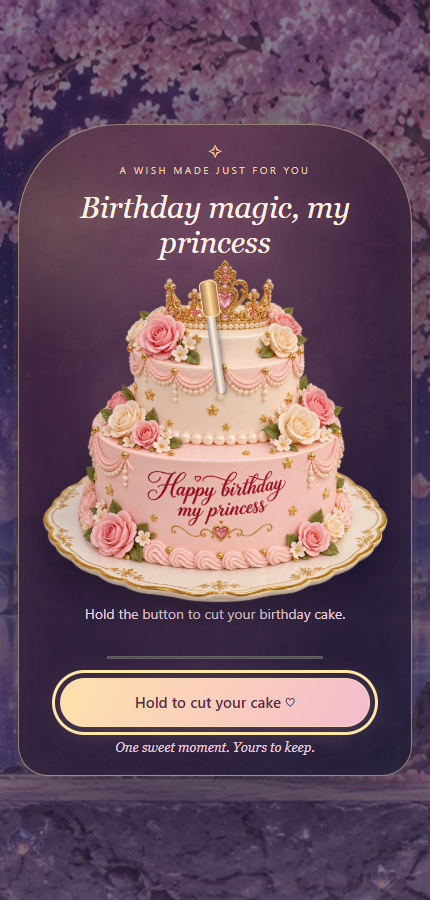
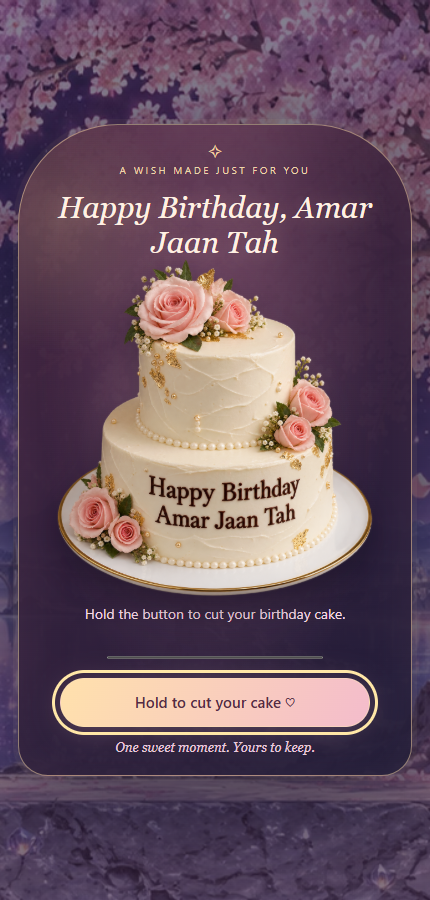
Update

Changed region(s): [[0.0907, 0.2178, 0.907, 0.6844]]

diff --git a/game.js b/game.js
@@ -55,7 +55,7 @@ function stop(){input=0;velocity=0;keys.clear();pointer=null;$('stick').style.tr
 function blocked(){return $('love-question').open||manualPause||document.hidden||$('letter').open||$('journal').open||$('challenge').open;}
 function setPhase(p){
  if(phase==='video'&&p!=='video')finaleVideo.pause();
- phase=p;clock=0;stop();cutHeld=false;$('cake-cutting').hidden=p!=='cutCake';if(p!=='loveQuestion'&&$('love-question').open)$('love-question').close();$('controls').hidden=p!=='explore';$('action').hidden=true;$('speech').hidden=true;
+ phase=p;clock=0;stop();$('end-reminder').hidden=true;cutHeld=false;$('cake-cutting').hidden=p!=='cutCake';if(p!=='loveQuestion'&&$('love-question').open)$('love-question').close();$('controls').hidden=p!=='explore';$('action').hidden=true;$('speech').hidden=true;
  $('ending').hidden=p!=='finished';$('video-screen').hidden=p!=='video';$('hud').hidden=!active||p==='video';
  updateAction();
 }
@@ -97,10 +97,10 @@ $('video-play').onclick=playFinaleVideo;
 $('video-continue').onclick=finishFinaleVideo;
 finaleVideo.addEventListener('ended',finishFinaleVideo);
 finaleVideo.addEventListener('error',()=>{if(phase!=='video')return;$('video-status').textContent='The video could not load. You can try again or continue.';$('video-play').hidden=false;});
-function updateAction(){let text=null;if(phase==='explore'&&near!==null){text=near==='bouquet'?'Pick up roses ♡':collected.has(near)?'Read again ♡':(passed.has(near)||letters[near]?.challengeEnabled===false)?'Open letter ♡':'Discover ♡';}if(phase==='offer')text=C.finale.handButton;if(phase==='cake')text=C.finale.candleButton;$('action').hidden=!text||blocked();if(text)$('action').textContent=text;$('action').classList.toggle('cinematic',phase!=='explore');}
+function updateAction(){let text=null;if(phase==='explore'&&near==='bouquet')text='Pick up roses ♡';if(phase==='offer')text=C.finale.handButton;if(phase==='cake')text=C.finale.candleButton;$('action').hidden=!text||blocked();if(text)$('action').textContent=text;$('action').classList.toggle('cinematic',phase!=='explore');}
 function findNear(){near=null;if(!carrying&&Math.abs(x-BOUQUET)<155)near='bouquet';else{let d=140;letters.forEach((l,i)=>{if(Math.abs(x-l.x)<d){near=i;d=Math.abs(x-l.x);}});}updateAction();}
 $('action').onclick=()=>{if(blocked())return;if(phase==='explore'&&near==='bouquet'){beginPickup('bouquet');}else if(phase==='explore'&&Number.isInteger(near)){requestLetter(near);}else if(phase==='offer'){setPhase('hold');chime('win');for(let i=0;i<160*density;i++)petals.push(makePetal(true));}else if(phase==='cake'){setPhase('blow');chime('wind');wind=1;}};
-function requestLetter(i){if(phase!=='explore'||blocked())return;if(collected.has(i))openLetter(i);else beginPickup(i);}
+function requestLetter(i){if(phase!=='explore'||blocked())return;if(collected.has(i)||passed.has(i)||letters[i].challengeEnabled===false)openLetter(i);else startChallenge(i);}
 function beginPickup(target){
  if(phase!=='explore'||blocked())return;
  const itemX=target==='bouquet'?BOUQUET:letters[target].x;
@@ -122,23 +122,24 @@ function pickupPose(){
  return Math.round(bend*7);
 }
 function openLetter(i){stop();modalLetter={...letters[i],i};const l=modalLetter;collected.add(i);passed.add(i);$('letter-number').textContent=`${String(i+1).padStart(2,'0')} / ${letters.length} · FOR ${C.nickname.toUpperCase()}`;$('letter-title').textContent=l.title;$('message').textContent=l.message.replaceAll('{{nickname}}',C.nickname).replaceAll('{{name}}',C.recipientName).replaceAll('{{sender}}',C.senderName);$('signature').textContent=l.signature||`With love, ${C.senderName}`;$('photo').hidden=!l.picture;if(l.picture){$('photo-img').src=l.picture;$('photo-img').alt=l.imageAlt||'Our little memory';}$('caption').textContent=l.caption||'';$('letter-animation').hidden=!l.animation.file;if(l.animation.file)$('letter-animation').src=`${l.folder}/${l.animation.file}`;$('continue').textContent=i===letters.length-1?'A little further… ♡':'Keep it in my heart ♡';$('letter').showModal();$('letter').scrollTop=0;window.writeBirthdayLetter?.($('message').textContent,i);if(l.music){song.src=l.music;song.load();}soundSync();updateCount();updateAction();}
-function closeLetter(){$('letter').close();}$('close-letter').onclick=closeLetter;$('continue').onclick=closeLetter;$('letter').addEventListener('close',()=>{if(letter.open)return;modalLetter=null;soundSync();updateAction();});$('photo-img').onerror=()=>{$('photo').hidden=true;};$('letter-animation').onerror=()=>{$('letter-animation').hidden=true;};song.onerror=()=>{if(modalLetter){modalLetter.music=null;soundSync();}};
+function closeLetter(){$('letter').close();}$('close-letter').onclick=closeLetter;$('continue').onclick=closeLetter;$('letter').addEventListener('close',()=>{if($('letter').open)return;modalLetter=null;soundSync();updateAction();});$('photo-img').onerror=()=>{$('photo').hidden=true;};$('letter-animation').onerror=()=>{$('letter-animation').hidden=true;};song.onerror=()=>{if(modalLetter){modalLetter.music=null;soundSync();}};
 function showJournal(){stop();$('journal-title').textContent=`${letters.length} little letters`;$('journal-list').replaceChildren();letters.forEach((l,i)=>{const b=document.createElement('button');b.disabled=!collected.has(i);b.textContent=collected.has(i)?`♡  ${l.title}`:`✧  Letter ${i+1}`;b.onclick=()=>{$('journal').close();openLetter(i);};$('journal-list').append(b);});$('reset-confirm').hidden=true;$('journal').showModal();updateAction();}
 $('journal-button').onclick=showJournal;$('ending-journal').onclick=showJournal;$('close-journal').onclick=()=>$('journal').close();$('journal').addEventListener('close',updateAction);$('restart').onclick=()=>{$('reset-confirm').hidden=false;};$('reset-no').onclick=()=>{$('reset-confirm').hidden=true;};$('reset-yes').onclick=()=>{collected.clear();passed.clear();carrying=false;completed=false;x=START;camera=0;bg.src=C.backgroundMusic;bg.load();$('journal').close();setPhase('explore');updateCount();soundSync();};$('replay').onclick=()=>{completed=false;beginCinema();};
 function togglePause(){manualPause=!manualPause;$('pause-screen').hidden=!manualPause;$('pause').setAttribute('aria-pressed',String(manualPause));$('pause').setAttribute('aria-label',manualPause?'Continue adventure':'Pause adventure');stop();soundSync();updateAction();}$('pause').onclick=togglePause;$('resume').onclick=togglePause;
 function setInput(n){input=n;$('stick').style.transform=`translateX(${n*22}px)`;}
 function touchMove(e){if(e.pointerId!==pointer)return;const r=$('joystick').getBoundingClientRect(),dx=e.clientX-r.left-r.width/2;setInput(Math.abs(dx)<7?0:Math.sign(dx));}
 $('joystick').addEventListener('pointerdown',e=>{if(phase!=='explore'||blocked())return;pointer=e.pointerId;$('joystick').setPointerCapture(pointer);touchMove(e);e.preventDefault();});$('joystick').addEventListener('pointermove',touchMove);['pointerup','pointercancel','lostpointercapture'].forEach(n=>$('joystick').addEventListener(n,stop));
-window.addEventListener('keydown',e=>{if(!active||blocked())return;if(phase==='explore'&&['arrowright','arrowleft','a','d'].includes(e.key.toLowerCase())){e.preventDefault();keys.add(e.key.toLowerCase());setInput((keys.has('arrowright')||keys.has('d')?1:0)-(keys.has('arrowleft')||keys.has('a')?1:0));}if(e.key.toLowerCase()==='e'&&!$('action').hidden)$('action').click();});window.addEventListener('keyup',e=>{keys.delete(e.key.toLowerCase());if(pointer===null)setInput((keys.has('arrowright')||keys.has('d')?1:0)-(keys.has('arrowleft')||keys.has('a')?1:0));});['left','right'].forEach((id,i)=>{$(id).addEventListener('keydown',e=>{if(e.key===' '||e.key==='Enter'){e.preventDefault();setInput(i?1:-1);}});$(id).addEventListener('keyup',e=>{if(e.key===' '||e.key==='Enter')stop();});});window.addEventListener('blur',()=>{stop();});document.addEventListener('visibilitychange',()=>{stop();soundSync();});
+window.addEventListener('keydown',e=>{if(!active||blocked())return;if(phase==='explore'&&['arrowright','arrowleft','a','d'].includes(e.key.toLowerCase())){e.preventDefault();keys.add(e.key.toLowerCase());setInput((keys.has('arrowright')||keys.has('d')?1:0)-(keys.has('arrowleft')||keys.has('a')?1:0));}if(e.key.toLowerCase()==='e'){if(phase==='explore'&&Number.isInteger(near))requestLetter(near);else if(!$('action').hidden)$('action').click();}});window.addEventListener('keyup',e=>{keys.delete(e.key.toLowerCase());if(pointer===null)setInput((keys.has('arrowright')||keys.has('d')?1:0)-(keys.has('arrowleft')||keys.has('a')?1:0));});['left','right'].forEach((id,i)=>{$(id).addEventListener('keydown',e=>{if(e.key===' '||e.key==='Enter'){e.preventDefault();setInput(i?1:-1);}});$(id).addEventListener('keyup',e=>{if(e.key===' '||e.key==='Enter')stop();});});window.addEventListener('blur',()=>{stop();});document.addEventListener('visibilitychange',()=>{stop();soundSync();});
 function strollDuration(a,b){return Math.max(2.8,Math.abs(b-a)/(C.boyWalkSpeed||135));}
 function stroll(t){t=clamp(t,0,1);const r=.15;if(t<r)return t*t/(2*r*(1-r));if(t>1-r)return 1-(1-t)*(1-t)/(2*r*(1-r));return (t-r/2)/(1-r);}
 function beginCinema(){if(collected.size!==letters.length)return;stop();x=END;camera=clamp(END-V*.24,0,WORLD-V);cinematic={girl:x-camera,boy:V+180,startGirl:x-camera,boyStart:V+180,boyGait:0};setPhase('arrival');$('live').textContent='A boy approaches through the blossoms.';}
 function tick(dt){if(blocked())return;const previousBoy=cinematic.boy,previousPhase=phase;clock+=dt;total+=dt;wind=Math.max(0,wind-dt*.38);
  if(phase==='explore'){
   velocity=mix(velocity,input*210,Math.min(1,dt*10));if(Math.abs(velocity)<1)velocity=0;
-  const limit=!carrying?BOUQUET+80:collected.size===letters.length?END:letters.at(-1).x+145;
+  const limit=!carrying?BOUQUET+80:END;
   x=clamp(x+velocity*dt,START,limit);if(input)face=input;if(velocity)gait+=dt*Math.abs(velocity)/210;
   camera=mix(camera,clamp(x-V*.32,0,WORLD-V),1-Math.exp(-dt*5));findNear();
+  const missingAtEnd=x>=END-2&&collected.size<letters.length;$('end-reminder').hidden=!missingAtEnd;
   if(x>=END-2&&collected.size===letters.length)beginCinema();
  }else if(phase==='pickup'){tickPickup();}
  else if(phase==='arrival'){const duration=strollDuration(V+180,V*.72);cinematic.boy=mix(V+180,V*.72,stroll(clock/duration));if(clock>=duration+.2)setPhase('kneel');}

diff --git a/index.html b/index.html
@@ -1,4 +1,4 @@
-<!doctype html><html lang="en"><head><meta charset="utf-8"><meta name="viewport" content="width=device-width,initial-scale=1,viewport-fit=cover"><meta name="theme-color" content="#080e23"><meta name="description" content="Twenty birthday wishes on a fairy-tale journey from Earth to the Moon."><title>For Muno · A Night to Remember</title><link rel="icon" href="assets/favicon.svg"><link rel="stylesheet" href="style.css?v=16"><script defer src="config.js?v=11"></script><script defer src="letter-writing.js?v=1"></script><script defer src="game.js?v=17"></script></head><body>
+<!doctype html><html lang="en"><head><meta charset="utf-8"><meta name="viewport" content="width=device-width,initial-scale=1,viewport-fit=cover"><meta name="theme-color" content="#080e23"><meta name="description" content="Twenty birthday wishes on a fairy-tale journey from Earth to the Moon."><title>For Muno · A Night to Remember</title><link rel="icon" href="assets/favicon.svg"><link rel="stylesheet" href="style.css?v=17"><script defer src="config.js?v=11"></script><script defer src="letter-writing.js?v=2"></script><script defer src="game.js?v=18"></script></head><body>
 <main id="app"><canvas id="scene" aria-label="Earth-to-Moon birthday adventure"></canvas>
 <section id="entrance"><div id="greeting" class="gate"><span class="flower">✿</span><h1>Hi Dear.</h1><p>Are you <span id="recipient"></span>?</p><div class="choices"><button id="yes" class="primary">Yes ♡</button><button id="no" class="glass">No</button></div><p id="no-message" class="feedback" aria-live="polite"></p></div>
 <form id="secret" class="gate" hidden><span class="flower">♡</span><h1>Our little secret.</h1><label for="answer">What does he call you?</label><input id="answer" placeholder="Your special nickname" autocomplete="off" autocapitalize="off" spellcheck="false" maxlength="80" required aria-describedby="answer-message"><button id="enter" class="primary" type="submit">Enter our world ✧</button><p id="answer-message" class="feedback" aria-live="polite"></p><button id="back" class="text-button" type="button">Back</button></form></section>
@@ -7,11 +7,11 @@
 <button id="action" class="primary action" hidden></button><div id="speech" hidden role="status"></div>
 <div id="pause-screen" hidden><button id="resume" class="primary">Continue ♡</button></div>
 <dialog id="love-question" aria-labelledby="love-title"><article class="paper"><span class="eyebrow">ONE LAST QUESTION</span><h2 id="love-title">Do you love me?</h2><div class="choices"><button id="love-yes" class="primary">Yes ♡</button><button id="love-no" class="glass">No</button></div><p id="love-plea" aria-live="polite"></p></article></dialog>
-<section id="cake-cutting" hidden aria-labelledby="cut-title"><div class="cut-card"><span class="cake-eyebrow">A WISH MADE JUST FOR YOU</span><h2 id="cut-title">Birthday magic, my princess</h2><div class="cake-confetti" aria-hidden="true"><i style="--n:0;--left:0%">♡</i><i style="--n:1;--left:43%">✦</i><i style="--n:2;--left:86%">✦</i><i style="--n:3;--left:29%">♡</i><i style="--n:4;--left:72%">✦</i><i style="--n:5;--left:15%">✦</i><i style="--n:6;--left:58%">♡</i><i style="--n:7;--left:1%">✦</i><i style="--n:8;--left:44%">✦</i><i style="--n:9;--left:87%">♡</i><i style="--n:10;--left:30%">✦</i><i style="--n:11;--left:73%">✦</i><i style="--n:12;--left:16%">♡</i><i style="--n:13;--left:59%">✦</i><i style="--n:14;--left:2%">✦</i><i style="--n:15;--left:45%">♡</i><i style="--n:16;--left:88%">✦</i><i style="--n:17;--left:31%">✦</i><i style="--n:18;--left:74%">♡</i><i style="--n:19;--left:17%">✦</i><i style="--n:20;--left:60%">✦</i><i style="--n:21;--left:3%">♡</i><i style="--n:22;--left:46%">✦</i><i style="--n:23;--left:89%">✦</i></div><div id="cake-art" role="img" aria-label="Romantic rose cake inscribed Happy birthday my princess"><div class="cake-aura"></div><div class="cake-half"><img src="assets/princess-cake.png" alt="" draggable="false"></div><div class="cake-half"><img src="assets/princess-cake.png" alt="" draggable="false"></div><div class="cake-knife" aria-hidden="true"></div></div><p id="cut-status" role="status"></p><progress id="cut-progress" max="1" value="0" aria-label="Cake cutting progress"></progress><button id="cut-button" class="primary">Hold to cut your cake ♡</button><span class="cake-footnote">One sweet moment. Yours to keep.</span></div></section>
+<section id="cake-cutting" hidden aria-labelledby="cut-title"><div class="cut-card"><span class="cake-eyebrow">A WISH MADE JUST FOR YOU</span><h2 id="cut-title">Happy Birthday, Amar Jaan Tah</h2><div class="cake-confetti" aria-hidden="true"><i style="--n:0;--left:0%">♡</i><i style="--n:1;--left:43%">✦</i><i style="--n:2;--left:86%">✦</i><i style="--n:3;--left:29%">♡</i><i style="--n:4;--left:72%">✦</i><i style="--n:5;--left:15%">✦</i><i style="--n:6;--left:58%">♡</i><i style="--n:7;--left:1%">✦</i><i style="--n:8;--left:44%">✦</i><i style="--n:9;--left:87%">♡</i><i style="--n:10;--left:30%">✦</i><i style="--n:11;--left:73%">✦</i><i style="--n:12;--left:16%">♡</i><i style="--n:13;--left:59%">✦</i><i style="--n:14;--left:2%">✦</i><i style="--n:15;--left:45%">♡</i><i style="--n:16;--left:88%">✦</i><i style="--n:17;--left:31%">✦</i><i style="--n:18;--left:74%">♡</i><i style="--n:19;--left:17%">✦</i><i style="--n:20;--left:60%">✦</i><i style="--n:21;--left:3%">♡</i><i style="--n:22;--left:46%">✦</i><i style="--n:23;--left:89%">✦</i></div><div id="cake-art" role="img" aria-label="Realistic rose cake inscribed Happy Birthday Amar Jaan Tah"><div class="cake-aura"></div><div class="cake-half"><img src="assets/realistic-jaan-cake.png" alt="" draggable="false"></div><div class="cake-half"><img src="assets/realistic-jaan-cake.png" alt="" draggable="false"></div><div class="cake-knife" aria-hidden="true"></div></div><p id="cut-status" role="status"></p><progress id="cut-progress" max="1" value="0" aria-label="Cake cutting progress"></progress><button id="cut-button" class="primary">Hold to cut your cake ♡</button><span class="cake-footnote">One sweet moment. Yours to keep.</span></div></section>
 <section id="video-screen" hidden aria-label="Your birthday video"><video id="finale-video" controls playsinline preload="none" aria-label="Birthday surprise video"></video><div class="video-actions"><p id="video-status" role="status"></p><button id="video-play" class="primary" hidden>Play video ♡</button><button id="video-continue" class="glass">Continue ♡</button></div></section>
 <section id="ending" hidden><span class="flower">♡</span><h1 id="birthday-title"></h1><p id="birthday-line"></p><div class="choices"><button id="ending-journal" class="glass">Our letters</button><button id="replay" class="glass">Once more ♡</button></div></section>
 <dialog id="challenge" aria-labelledby="challenge-title"><article class="paper challenge-paper"><button id="close-challenge" class="close" aria-label="Leave this challenge">×</button><span id="challenge-number" class="eyebrow"></span><h2 id="challenge-title"></h2><p id="challenge-hint"></p><div id="playfield"><canvas id="mini-canvas" aria-hidden="true"></canvas><div id="mini-buttons"></div></div><form id="question-form" hidden><label id="question-label" for="question-answer"></label><input id="question-answer" autocomplete="off" placeholder="Your answer" required maxlength="200" aria-describedby="challenge-status"><button class="primary" type="submit">Unlock my letter ♡</button></form><p id="challenge-status" role="status" aria-live="polite"></p></article></dialog>
-<dialog id="letter" aria-labelledby="letter-title"><article class="paper"><button id="close-letter" class="close" aria-label="Close letter">×</button><span id="letter-number" class="eyebrow"></span><h2 id="letter-title"></h2><figure id="photo"><img id="photo-img" alt=""><figcaption id="caption"></figcaption></figure><img id="letter-animation" alt="" hidden><div id="message"></div><p id="signature"></p><button id="continue" class="primary">Keep it in my heart ♡</button></article></dialog>
+<dialog id="letter" aria-labelledby="letter-title"><article class="paper"><button id="close-letter" class="close" aria-label="Close letter">×</button><span id="letter-number" class="eyebrow"></span><h2 id="letter-title"></h2><figure id="photo"><img id="photo-img" alt=""><figcaption id="caption"></figcaption></figure><img id="letter-animation" alt="" hidden><div id="message" tabindex="0" role="region" aria-label="Letter text. Scroll horizontally and vertically to read."></div><p id="signature"></p><button id="continue" class="primary">Keep it in my heart ♡</button></article></dialog>
 <dialog id="journal" aria-labelledby="journal-title"><article class="paper"><button id="close-journal" class="close" aria-label="Close memories">×</button><span class="eyebrow">YOURS, ALWAYS</span><h2 id="journal-title">Seven little letters</h2><div id="journal-list"></div><button id="restart" class="text-button">Begin the whole journey again</button><div id="reset-confirm" hidden><p>Start again and clear your collected letters?</p><button id="reset-yes" class="glass">Start again</button><button id="reset-no" class="text-button">Keep my memories</button></div></article></dialog>
-<div id="toast" role="status" aria-live="polite"></div><span id="live" class="sr-only" aria-live="polite"></span>
+<div id="end-reminder" hidden role="alert">You left your letter behind, my precious girl. Collect it first. ♡</div><div id="toast" role="status" aria-live="polite"></div><span id="live" class="sr-only" aria-live="polite"></span>
 </main></body></html>

diff --git a/letter-writing.js b/letter-writing.js
@@ -4,14 +4,14 @@
  window.writeBirthdayLetter=(text,index)=>{
   cancelAnimationFrame(raf);const box=document.getElementById('message'),dialog=document.getElementById('letter'),paper=dialog.querySelector('.paper');
   paper.style.setProperty('--paper',themes[index%20]);paper.style.setProperty('--ink',`hsl(${(index*29+315)%360} 27% 25%)`);paper.dataset.paper=index%5;dialog.classList.add('birthday-paper');
-  box.replaceChildren();const accessible=document.createElement('span');accessible.className='sr-only';accessible.textContent=text;
+  box.scrollLeft=box.scrollTop=0;box.replaceChildren();const accessible=document.createElement('span');accessible.className='sr-only';accessible.textContent=text;
   const visual=document.createElement('span');visual.setAttribute('aria-hidden','true');const written=document.createElement('span'),remaining=document.createElement('span');remaining.style.visibility='hidden';remaining.textContent=text;visual.append(written,remaining);
   const pen=document.createElement('span');pen.className='writing-pen';pen.textContent='✒';pen.setAttribute('aria-hidden','true');box.append(accessible,visual,pen);
   let skip=document.getElementById('finish-writing');if(!skip){skip=document.createElement('button');skip.id='finish-writing';skip.className='text-button';skip.textContent='Read the whole letter ♡';box.before(skip);}skip.hidden=false;
   let count=0,last=performance.now(),elapsed=0;
   finish=()=>{cancelAnimationFrame(raf);written.textContent=text;remaining.textContent='';pen.hidden=true;skip.hidden=true;};skip.onclick=finish;
   if(matchMedia('(prefers-reduced-motion: reduce)').matches){finish();return;}
-  function step(now){const dt=Math.max(0,Math.min(now-last,60));last=now;if(!dialog.open)return;if(!document.hidden)elapsed+=dt;const next=Math.min(text.length,Math.floor(elapsed*.085));if(next!==count){count=next;written.textContent=text.slice(0,count);remaining.textContent=text.slice(count);if(count){const range=document.createRange();range.setStart(written.firstChild,count-1);range.setEnd(written.firstChild,count);const rect=range.getBoundingClientRect(),base=box.getBoundingClientRect();pen.style.left=`${rect.right-base.left}px`;pen.style.top=`${rect.top-base.top-12}px`;}}if(count===text.length){finish();return;}raf=requestAnimationFrame(step);}
+  function step(now){const dt=Math.max(0,Math.min(now-last,60));last=now;if(!dialog.open)return;if(!document.hidden)elapsed+=dt;const next=Math.min(text.length,Math.floor(elapsed*.085));if(next!==count){count=next;written.textContent=text.slice(0,count);remaining.textContent=text.slice(count);if(count){const range=document.createRange();range.setStart(written.firstChild,count-1);range.setEnd(written.firstChild,count);const rect=range.getBoundingClientRect(),base=box.getBoundingClientRect();pen.style.left=`${rect.right-base.left+box.scrollLeft}px`;pen.style.top=`${rect.top-base.top+box.scrollTop-12}px`;}}if(count===text.length){finish();return;}raf=requestAnimationFrame(step);}
   raf=requestAnimationFrame(step);
  };
  document.getElementById('letter').addEventListener('close',()=>{if(document.getElementById('letter').open)return;cancelAnimationFrame(raf);finish();});

diff --git a/style.css b/style.css
@@ -22,3 +22,5 @@ dialog{position:fixed;left:0;right:0;top:var(--dialog-top,50%);bottom:auto;margi
 
 .cake-knife{opacity:clamp(0,calc(var(--cut)*30),1)}.sliced .cake-knife{opacity:0}
 
+
+#letter.birthday-paper #message{font-size:14px;line-height:1.8;white-space:pre;overflow-wrap:normal;word-break:normal;overflow:auto;max-height:48svh;min-height:220px;max-width:100%;padding:8px 12px 22px 0;overscroll-behavior:contain;scrollbar-width:thin;scrollbar-color:#b2849c #b2849c18;touch-action:pan-x pan-y}#letter.birthday-paper h2{font-size:25px}#letter.birthday-paper #signature{font-size:15px}#end-reminder{position:absolute;z-index:7;top:24%;left:50%;transform:translateX(-50%);width:min(85%,390px);padding:22px;border:1px solid #ffe0b977;border-radius:24px;background:#251a36ed;color:#ffe1ed;text-align:center;font:18px/1.6 Georgia;box-shadow:0 10px 40px #08091966}

diff --git a/README.md b/README.md
@@ -148,3 +148,6 @@ Seven atmosphere effects follow the girl's scene position: glowing rain, falling
 
 Princess celebration update: assets/princess-cake.png is a transparent rose-and-pearl cake with crown and the inscription Happy birthday my princess. The cutting card uses the Moon garden, rose/gold lighting, and completion confetti. Hold/release and the sky/video transition remain unchanged. After holding hands, couple-hand-kiss plays eight poses across 6.4 seconds, lingering at actual hand contact with a closer camera before danceRise. Verified via tests/verify-celebration.cjs and tests/verify-romance.cjs.
 
+
+Latest polish: realistic-jaan-cake.png replaces the illustrated cake with photorealistic buttercream/roses and clean Happy Birthday Amar Jaan Tah lettering. Built-in imagegen prompt: real luxury two-tier ivory buttercream cake, blush roses, restrained gold leaf, clean upright dark chocolate lettering, transparent background. Hand-kiss-contact artwork corrects face/wrist overlap while keeping the eight-pose timing. Letter text is 14px, preserves line breaks without wrapping, and scrolls on both axes as needed. Existing message files were preserved. Tap a nearby letter to open its challenge or message immediately; no bottom letter action. Missing letters at the endpoint show a persistent reminder and block the finale. Browser checks: verify-letter-controls.cjs and verify-celebration.cjs passed.
+
